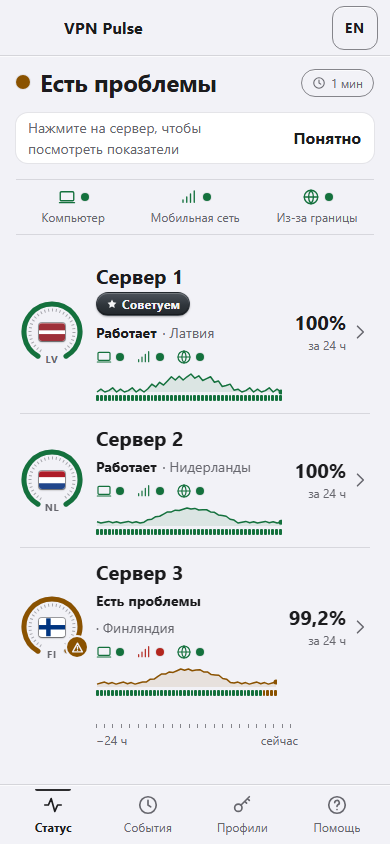
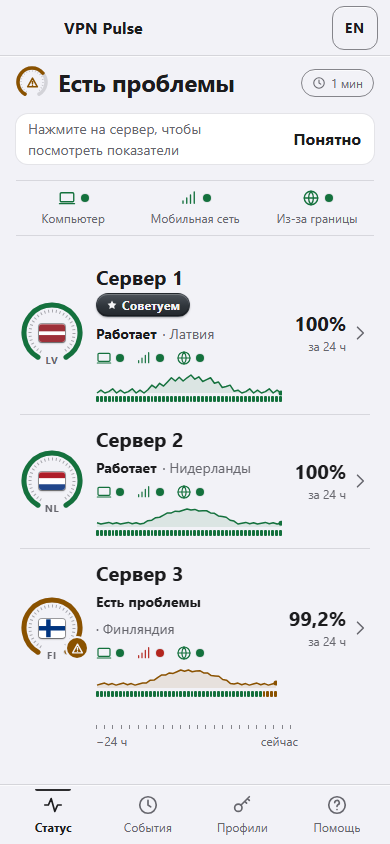
design: summary gauge in the status headline
The overall state is shown by a 32 px gauge in the same language as the
server rings: arc = share of servers that work, colour = overall state,
glyph = check / alert / cross / clock (no fresh data), dashed when unknown.

diff --git a/docs/prototypes/mvp.html b/docs/prototypes/mvp.html
@@ -295,7 +295,7 @@ p { margin: 0; }
 .overall .ov-row { display: grid; grid-template-columns: minmax(0, 1fr) auto; align-items: start; gap: var(--space-3); }
 .overall h1.title { min-width: 0; display: flex; align-items: flex-start; gap: 10px; }
 /* lamp sits on the first line of the headline (cap height of a 24 px / 1.2 title) */
-.overall h1.title .lamp { width: 14px; height: 14px; margin: 7px 0 0; }
+.overall h1.title .ring.xs { margin-top: -2px; }
 .overall .chip-fresh { margin-top: 1px; }
 /* chips: machined pill (freshness) and metal plate (recommendation) */
 .chip { display: inline-flex; align-items: center; gap: 4px; min-height: 24px; padding: 0 9px; border-radius: 999px; font-size: var(--text-xs); font-weight: 700; line-height: 1; white-space: nowrap; border: 1px solid var(--color-border-strong); color: var(--color-muted); box-shadow: inset 0 1px 0 var(--line-light); vertical-align: middle; }
@@ -380,6 +380,12 @@ p { margin: 0; }
 .ring.r-unknown { color: var(--color-unknown); } .ring.r-unknown .arc { stroke-dasharray: 3 6; stroke-linecap: butt; opacity: .8; } .ring.r-unknown .ticks { display: none; }
 .ring .mark { position: absolute; right: -3px; bottom: 2px; width: 20px; height: 20px; border-radius: 50%; background: currentColor; display: grid; place-items: center; box-shadow: 0 0 0 2px var(--color-bg), var(--lamp-glow); }
 .ring .mark .i { width: 13px; height: 13px; stroke-width: 2.6; stroke: var(--color-bg); }
+/* xs: summary gauge in the status headline — thicker arc, sparser ticks, a glyph instead of the flag */
+.ring.xs { --ring-size: 32px; flex: none; }
+.ring.xs .track, .ring.xs .arc { stroke-width: 7; }
+.ring.xs .ticks { stroke-width: 3; stroke-dasharray: 2.5 12.5; }
+.ring.xs .glyph { position: relative; display: grid; place-items: center; }
+.ring.xs .glyph .i { width: 13px; height: 13px; stroke-width: 2.8; }
 .ring.sm { --ring-size: var(--ring-size-sm); } .ring.sm .cc { font-size: 8px; } .ring.sm .flag .emoji { font-size: 12px; } .ring.sm .mark { width: 16px; height: 16px; right: -2px; bottom: 1px; } .ring.sm .mark .i { width: 10px; height: 10px; }
 .skeleton .sk { background: color-mix(in srgb, var(--color-muted) 18%, transparent); border-radius: var(--radius-sm); }
 .skeleton .srow { pointer-events: none; }
@@ -710,6 +716,13 @@ textarea.note-input:focus-visible { box-shadow: var(--panel-inset), inset 0 0 0 
     return '<span class="ring r-' + s.state + ' ' + (cls || '') + '" aria-hidden="true">' + gauge(arc) + '<span class="flag">' + face + '</span>' + (cc ? '<span class="cc">' + esc(cc.toUpperCase()) + '</span>' : '') + mark + '</span>';
   }
   const sevIcon = { high: 'x', medium: 'alert', low: 'info' };
+  // summary gauge for the status headline: arc = share of servers that work, colour = overall state,
+  // glyph repeats the state (check / alert / x / clock = no fresh data). No flag, no country code.
+  const stateGlyph = { operational: 'check', degraded: 'alert', unavailable: 'x', unknown: 'clock' };
+  function summaryGauge(state, fraction) {
+    const arc = state === 'unknown' || fraction === null ? '' : ' style="stroke-dasharray:' + Math.max(6, Math.min(300, fraction * 300)).toFixed(1) + ' 300"';
+    return '<span class="ring xs r-' + state + '" aria-hidden="true">' + gauge(arc) + '<span class="glyph">' + ico(stateGlyph[state] || 'clock') + '</span></span>';
+  }
   const srcIcon = { pc: 'pc', mobile: 'signal', abroad: 'globe' };
   function sources(s, withLabels) {
     return '<span class="srcs">' + kinds().map(k => { const r = s.sources[k].r; return '<span class="src s-' + r + '"><span class="sr-only">' + esc(t('source.' + k)) + ': ' + esc(t('source.result.' + r)) + '</span>' + ico(srcIcon[k]) + '<span class="d" aria-hidden="true"></span>' + (withLabels ? '<span class="lbl">' + esc(t('source.' + k)) + '</span>' : '') + '</span>'; }).join('') + '</span>';
@@ -749,7 +762,8 @@ textarea.note-input:focus-visible { box-shadow: var(--panel-inset), inset 0 0 0 
     // the recommendation lives on the server row (chip); here only the absence of one is worth a line
     const recHtml = !SC.empty && !rec && SC.list.length ? '<p class="small muted">' + esc(t('status.noRecommendation')) + '</p>' : '';
     const title = SC.empty ? t('status.settingUp') : SC.api === 'offline' ? t('status.' + SC.overall) : t('status.' + SC.overall);
-    const lamp = SC.empty || !SC.overall ? '' : '<span class="lamp c-' + SC.overall + '" aria-hidden="true"></span>';
+    const okShare = SC.list.length ? SC.list.filter(x => x.state === 'operational').length / SC.list.length : null;
+    const lamp = SC.empty || !SC.overall ? '' : summaryGauge(SC.overall, okShare);
     return '<div class="overall"><div class="ov-row"><h1 class="title" id="screen-title" tabindex="-1">' + lamp + esc(title) + '</h1>' + fresh + '</div>' + recHtml + '</div>';
   }
   function noteBlock() {

diff --git a/docs/prototypes/onboarding.html b/docs/prototypes/onboarding.html
@@ -295,7 +295,7 @@ p { margin: 0; }
 .overall .ov-row { display: grid; grid-template-columns: minmax(0, 1fr) auto; align-items: start; gap: var(--space-3); }
 .overall h1.title { min-width: 0; display: flex; align-items: flex-start; gap: 10px; }
 /* lamp sits on the first line of the headline (cap height of a 24 px / 1.2 title) */
-.overall h1.title .lamp { width: 14px; height: 14px; margin: 7px 0 0; }
+.overall h1.title .ring.xs { margin-top: -2px; }
 .overall .chip-fresh { margin-top: 1px; }
 /* chips: machined pill (freshness) and metal plate (recommendation) */
 .chip { display: inline-flex; align-items: center; gap: 4px; min-height: 24px; padding: 0 9px; border-radius: 999px; font-size: var(--text-xs); font-weight: 700; line-height: 1; white-space: nowrap; border: 1px solid var(--color-border-strong); color: var(--color-muted); box-shadow: inset 0 1px 0 var(--line-light); vertical-align: middle; }
@@ -380,6 +380,12 @@ p { margin: 0; }
 .ring.r-unknown { color: var(--color-unknown); } .ring.r-unknown .arc { stroke-dasharray: 3 6; stroke-linecap: butt; opacity: .8; } .ring.r-unknown .ticks { display: none; }
 .ring .mark { position: absolute; right: -3px; bottom: 2px; width: 20px; height: 20px; border-radius: 50%; background: currentColor; display: grid; place-items: center; box-shadow: 0 0 0 2px var(--color-bg), var(--lamp-glow); }
 .ring .mark .i { width: 13px; height: 13px; stroke-width: 2.6; stroke: var(--color-bg); }
+/* xs: summary gauge in the status headline — thicker arc, sparser ticks, a glyph instead of the flag */
+.ring.xs { --ring-size: 32px; flex: none; }
+.ring.xs .track, .ring.xs .arc { stroke-width: 7; }
+.ring.xs .ticks { stroke-width: 3; stroke-dasharray: 2.5 12.5; }
+.ring.xs .glyph { position: relative; display: grid; place-items: center; }
+.ring.xs .glyph .i { width: 13px; height: 13px; stroke-width: 2.8; }
 .ring.sm { --ring-size: var(--ring-size-sm); } .ring.sm .cc { font-size: 8px; } .ring.sm .flag .emoji { font-size: 12px; } .ring.sm .mark { width: 16px; height: 16px; right: -2px; bottom: 1px; } .ring.sm .mark .i { width: 10px; height: 10px; }
 .skeleton .sk { background: color-mix(in srgb, var(--color-muted) 18%, transparent); border-radius: var(--radius-sm); }
 .skeleton .srow { pointer-events: none; }
@@ -719,6 +725,13 @@ body { flex-direction: column; }
     return '<span class="ring r-' + s.state + ' ' + (cls || '') + '" aria-hidden="true">' + gauge(arc) + '<span class="flag">' + face + '</span>' + (cc ? '<span class="cc">' + esc(cc.toUpperCase()) + '</span>' : '') + mark + '</span>';
   }
   const sevIcon = { high: 'x', medium: 'alert', low: 'info' };
+  // summary gauge for the status headline: arc = share of servers that work, colour = overall state,
+  // glyph repeats the state (check / alert / x / clock = no fresh data). No flag, no country code.
+  const stateGlyph = { operational: 'check', degraded: 'alert', unavailable: 'x', unknown: 'clock' };
+  function summaryGauge(state, fraction) {
+    const arc = state === 'unknown' || fraction === null ? '' : ' style="stroke-dasharray:' + Math.max(6, Math.min(300, fraction * 300)).toFixed(1) + ' 300"';
+    return '<span class="ring xs r-' + state + '" aria-hidden="true">' + gauge(arc) + '<span class="glyph">' + ico(stateGlyph[state] || 'clock') + '</span></span>';
+  }
   const srcIcon = { pc: 'pc', mobile: 'signal', abroad: 'globe' };
   function sources(s, withLabels) {
     return '<span class="srcs">' + kinds().map(k => { const r = s.sources[k].r; return '<span class="src s-' + r + '"><span class="sr-only">' + esc(t('source.' + k)) + ': ' + esc(t('source.result.' + r)) + '</span>' + ico(srcIcon[k]) + '<span class="d" aria-hidden="true"></span>' + (withLabels ? '<span class="lbl">' + esc(t('source.' + k)) + '</span>' : '') + '</span>'; }).join('') + '</span>';
@@ -758,7 +771,8 @@ body { flex-direction: column; }
     // the recommendation lives on the server row (chip); here only the absence of one is worth a line
     const recHtml = !SC.empty && !rec && SC.list.length ? '<p class="small muted">' + esc(t('status.noRecommendation')) + '</p>' : '';
     const title = SC.empty ? t('status.settingUp') : SC.api === 'offline' ? t('status.' + SC.overall) : t('status.' + SC.overall);
-    const lamp = SC.empty || !SC.overall ? '' : '<span class="lamp c-' + SC.overall + '" aria-hidden="true"></span>';
+    const okShare = SC.list.length ? SC.list.filter(x => x.state === 'operational').length / SC.list.length : null;
+    const lamp = SC.empty || !SC.overall ? '' : summaryGauge(SC.overall, okShare);
     return '<div class="overall"><div class="ov-row"><h1 class="title" id="screen-title" tabindex="-1">' + lamp + esc(title) + '</h1>' + fresh + '</div>' + recHtml + '</div>';
   }
   function noteBlock() {

diff --git a/docs/prototypes/source/app.js b/docs/prototypes/source/app.js
@@ -170,6 +170,13 @@
     return '<span class="ring r-' + s.state + ' ' + (cls || '') + '" aria-hidden="true">' + gauge(arc) + '<span class="flag">' + face + '</span>' + (cc ? '<span class="cc">' + esc(cc.toUpperCase()) + '</span>' : '') + mark + '</span>';
   }
   const sevIcon = { high: 'x', medium: 'alert', low: 'info' };
+  // summary gauge for the status headline: arc = share of servers that work, colour = overall state,
+  // glyph repeats the state (check / alert / x / clock = no fresh data). No flag, no country code.
+  const stateGlyph = { operational: 'check', degraded: 'alert', unavailable: 'x', unknown: 'clock' };
+  function summaryGauge(state, fraction) {
+    const arc = state === 'unknown' || fraction === null ? '' : ' style="stroke-dasharray:' + Math.max(6, Math.min(300, fraction * 300)).toFixed(1) + ' 300"';
+    return '<span class="ring xs r-' + state + '" aria-hidden="true">' + gauge(arc) + '<span class="glyph">' + ico(stateGlyph[state] || 'clock') + '</span></span>';
+  }
   const srcIcon = { pc: 'pc', mobile: 'signal', abroad: 'globe' };
   function sources(s, withLabels) {
     return '<span class="srcs">' + kinds().map(k => { const r = s.sources[k].r; return '<span class="src s-' + r + '"><span class="sr-only">' + esc(t('source.' + k)) + ': ' + esc(t('source.result.' + r)) + '</span>' + ico(srcIcon[k]) + '<span class="d" aria-hidden="true"></span>' + (withLabels ? '<span class="lbl">' + esc(t('source.' + k)) + '</span>' : '') + '</span>'; }).join('') + '</span>';
@@ -209,7 +216,8 @@
     // the recommendation lives on the server row (chip); here only the absence of one is worth a line
     const recHtml = !SC.empty && !rec && SC.list.length ? '<p class="small muted">' + esc(t('status.noRecommendation')) + '</p>' : '';
     const title = SC.empty ? t('status.settingUp') : SC.api === 'offline' ? t('status.' + SC.overall) : t('status.' + SC.overall);
-    const lamp = SC.empty || !SC.overall ? '' : '<span class="lamp c-' + SC.overall + '" aria-hidden="true"></span>';
+    const okShare = SC.list.length ? SC.list.filter(x => x.state === 'operational').length / SC.list.length : null;
+    const lamp = SC.empty || !SC.overall ? '' : summaryGauge(SC.overall, okShare);
     return '<div class="overall"><div class="ov-row"><h1 class="title" id="screen-title" tabindex="-1">' + lamp + esc(title) + '</h1>' + fresh + '</div>' + recHtml + '</div>';
   }
   function noteBlock() {

diff --git a/docs/prototypes/source/app.css b/docs/prototypes/source/app.css
@@ -150,7 +150,7 @@ p { margin: 0; }
 .overall .ov-row { display: grid; grid-template-columns: minmax(0, 1fr) auto; align-items: start; gap: var(--space-3); }
 .overall h1.title { min-width: 0; display: flex; align-items: flex-start; gap: 10px; }
 /* lamp sits on the first line of the headline (cap height of a 24 px / 1.2 title) */
-.overall h1.title .lamp { width: 14px; height: 14px; margin: 7px 0 0; }
+.overall h1.title .ring.xs { margin-top: -2px; }
 .overall .chip-fresh { margin-top: 1px; }
 /* chips: machined pill (freshness) and metal plate (recommendation) */
 .chip { display: inline-flex; align-items: center; gap: 4px; min-height: 24px; padding: 0 9px; border-radius: 999px; font-size: var(--text-xs); font-weight: 700; line-height: 1; white-space: nowrap; border: 1px solid var(--color-border-strong); color: var(--color-muted); box-shadow: inset 0 1px 0 var(--line-light); vertical-align: middle; }
@@ -235,6 +235,12 @@ p { margin: 0; }
 .ring.r-unknown { color: var(--color-unknown); } .ring.r-unknown .arc { stroke-dasharray: 3 6; stroke-linecap: butt; opacity: .8; } .ring.r-unknown .ticks { display: none; }
 .ring .mark { position: absolute; right: -3px; bottom: 2px; width: 20px; height: 20px; border-radius: 50%; background: currentColor; display: grid; place-items: center; box-shadow: 0 0 0 2px var(--color-bg), var(--lamp-glow); }
 .ring .mark .i { width: 13px; height: 13px; stroke-width: 2.6; stroke: var(--color-bg); }
+/* xs: summary gauge in the status headline — thicker arc, sparser ticks, a glyph instead of the flag */
+.ring.xs { --ring-size: 32px; flex: none; }
+.ring.xs .track, .ring.xs .arc { stroke-width: 7; }
+.ring.xs .ticks { stroke-width: 3; stroke-dasharray: 2.5 12.5; }
+.ring.xs .glyph { position: relative; display: grid; place-items: center; }
+.ring.xs .glyph .i { width: 13px; height: 13px; stroke-width: 2.8; }
 .ring.sm { --ring-size: var(--ring-size-sm); } .ring.sm .cc { font-size: 8px; } .ring.sm .flag .emoji { font-size: 12px; } .ring.sm .mark { width: 16px; height: 16px; right: -2px; bottom: 1px; } .ring.sm .mark .i { width: 10px; height: 10px; }
 .skeleton .sk { background: color-mix(in srgb, var(--color-muted) 18%, transparent); border-radius: var(--radius-sm); }
 .skeleton .srow { pointer-events: none; }
